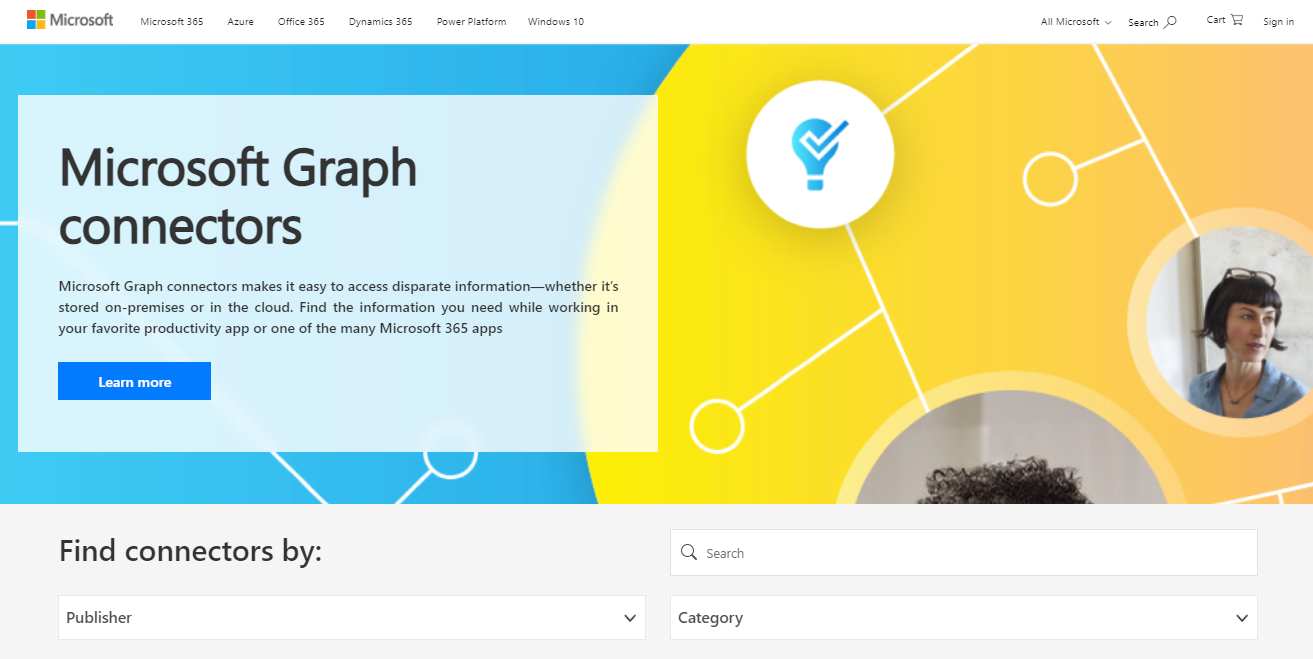
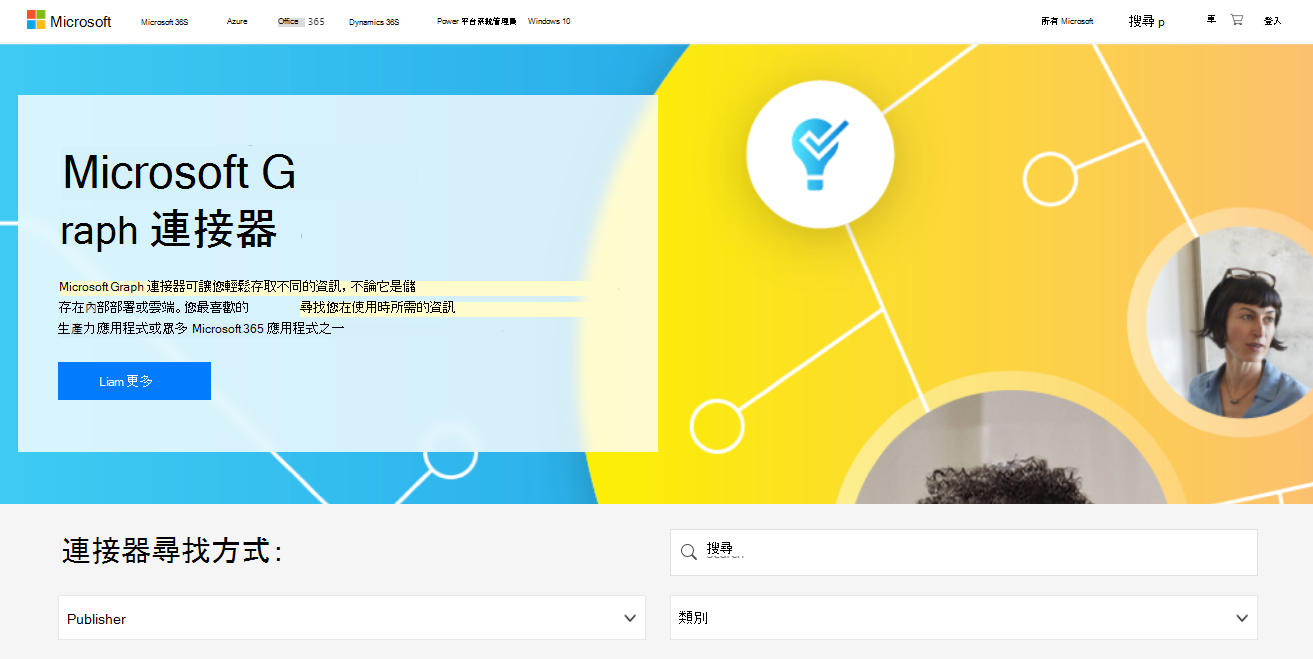
commit translated contents

diff --git a/MicrosoftSearch/customize-search-page.md b/MicrosoftSearch/customize-search-page.md
@@ -12,27 +12,27 @@ search.appverid:
 - MET150
 - MOE150
 description: 新增搜尋行業及自訂搜尋結果
-ms.openlocfilehash: e5c4ab8d507e0e6096a5b9d52dc0e818faebefb6
-ms.sourcegitcommit: a07c957dfa1d31542f0362379251bc9679dfae41
+ms.openlocfilehash: 6b6f0593a668e9c2c5c7fc5a62f7b5dd4a43a8bb
+ms.sourcegitcommit: ea6905626de67090141039565282e4e0c53b43ac
 ms.translationtype: MT
 ms.contentlocale: zh-TW
-ms.lasthandoff: 04/08/2021
-ms.locfileid: "51639851"
+ms.lasthandoff: 07/07/2021
+ms.locfileid: "53314017"
 ---
 # <a name="customize-the-search-results-page"></a>自訂搜尋結果頁面
 
-您可以建立搜尋類別和結果類型，以自訂使用者在 Microsoft [SharePoint](https://sharepoint.com/)、 [Microsoft Office](https://office.com)和 microsoft search in [Bing](https://bing.com)中搜尋時所看到的搜尋結果。 縱向使用者可讓使用者更輕鬆地找到他們具有查看許可權的資訊。 例如，您可以為行銷部門中的使用者建立協力廠商軟體的「行銷分析」資料的搜尋類別。 您也可以定義結果類型及自訂此資料的版面配置。  
+您可以建立搜尋類別和結果類型，以自訂使用者在 Microsoft [SharePoint](https://sharepoint.com/)、 [Microsoft Office](https://office.com)及 Microsoft 搜尋中的[Bing](https://bing.com)搜尋時所看到的搜尋結果。 縱向使用者可讓使用者更輕鬆地找到他們具有查看許可權的資訊。 例如，您可以為行銷部門中的使用者建立協力廠商軟體的「行銷分析」資料的搜尋類別。 您也可以定義結果類型及自訂此資料的版面配置。  
 
 您可以在下列各層級建立縱向和結果類型：
 
-- **組織層級** –當您在組織層級新增垂直時，當使用者從他們的 [SharePoint](https://sharepoint.com/) 開始頁面、 [Office](https://office.com)或 [Bing](https://bing.com)進行搜尋時，它會出現在搜尋結果頁面上。
-- **網站層級** –例如，您可能想要讓客戶服務員工直接從部門的 SharePoint 網站搜尋 *嚴重性 1* 事件。
+- **組織層級**–當使用者從其 [SharePoint](https://sharepoint.com/)開始頁面、 [Office](https://office.com)或 [Bing](https://bing.com)進行搜尋時，會顯示在搜尋結果頁面上的 [組織] 層級。
+- **網站層級**–例如，您可能想要讓客戶服務員工直接從部門的 SharePoint 網站搜尋 *嚴重性 1* 事件。
 
 ## <a name="search-verticals-explained"></a>說明的搜尋縱向
 
-在 [Microsoft 搜尋結果] 頁面的頂端有一列索引標籤。 這些是搜尋行業。 搜尋類別只會顯示特定類型或特定內容的結果。 例如 **檔** 或 **新聞**。 根據預設，Microsoft 搜尋會顯示縱向 **所有** 的 **人員**、 **檔**、 **網站** 和 **新聞**。  
+在 [Microsoft 搜尋結果] 頁面的頂端，有一列索引標籤。 這些是搜尋行業。 搜尋類別只會顯示特定類型或特定內容的結果。 例如 **檔** 或 **新聞**。 依預設，Microsoft 搜尋會顯示 **所有** 的縱向、**人員**、**檔案、****網站** 和 **新聞**。  
 
-您可以新增與您組織相關的搜尋行業。 這些會出現在 [ [SharePoint](https://sharepoint.com/)]、[ [Office](https://Office.com)] 及 [ [Bing](https://bing.com)] 的 [Microsoft 搜尋結果] 頁面上。 例如，您可以根據每個群組所需的資訊類型，為行銷相關的內容及另一個銷售人員建立垂直。 您可以新增縱向，只顯示透過連接器編制索引的內容的結果。  
+您可以新增與您組織相關的搜尋行業。 這些會出現在 Microsoft 搜尋結果頁面上[SharePoint](https://sharepoint.com/)、 [Office](https://Office.com)及[Bing](https://bing.com)。 例如，您可以根據每個群組所需的資訊類型，為行銷相關的內容及另一個銷售人員建立垂直。 您可以新增縱向，只顯示透過連接器編制索引的內容的結果。  
 
 ### <a name="multiple-connections-in-a-vertical"></a>垂直中的多個連接
 
@@ -53,7 +53,7 @@ ms.locfileid: "51639851"
 
 開始之前，請確定連接器已編制索引。 這可能需要最多48小時，視檔案大小而定。
 
-您無法為位於 [SharePoint](https://sharepoint.com/)中的內容建立垂直。
+您無法為位於[SharePoint](https://sharepoint.com/)中的內容建立垂直。
 
 新增垂直的三個基本步驟：
 
@@ -66,19 +66,20 @@ ms.locfileid: "51639851"
 啟動該嚮導之後，您會逐步指導您定義要搜尋之內容的垂直名稱、內容來源及範圍。 會以停用狀態建立垂直。 您將在稍後啟用它。
 
 您可以使用一組有限的 [關鍵字查詢語言 (KQL) ](/sharepoint/dev/general-development/keyword-query-language-kql-syntax-reference) 來縮小範圍。 此頁面列出可用的屬性。 建議您使用具有 boolean 運算子的任意文字關鍵字和屬性限制，以建立 KQL。
+KQL 也支援使用 [設定檔查詢變數](#profile-query-variables) ，在垂直方向微調結果。
 
 ### <a name="create-a-vertical-at-the-organization-level"></a>在組織層級建立垂直
 
-若要在 [SharePoint](https://sharepoint.com/) Home、 [Office](https://office.com)或 [Bing](https://bing.com)中的 Microsoft 搜尋上建立垂直，請遵循下列步驟：
+若要在[SharePoint](https://sharepoint.com/) home、 [Office](https://office.com)或[Bing](https://bing.com)中的 Microsoft 搜尋上建立垂直的，請遵循下列步驟：
 
-1. 在 [Microsoft 365 系統管理中心](https://admin.microsoft.com)中，移至 [ [**縱向**](https://admin.microsoft.com/Adminportal/Home#/MicrosoftSearch/verticals)]。
+1. 在 [Microsoft 365 系統管理中心](https://admin.microsoft.com)中，移至 [[**縱向**](https://admin.microsoft.com/Adminportal/Home#/MicrosoftSearch/verticals)]。
 2. 選取 [ **新增** ] 立即開始。  
 
 ### <a name="create-a-vertical-at-the-site-level"></a>在網站層級建立垂直
 
-1. 在您要垂直的 [SharePoint](https://sharepoint.com/) 網站上，移至 [ **設定**]。
+1. 在您要垂直的 [SharePoint](https://sharepoint.com/)網站上，移至 **設定**。
 2. 選取 [ **網站資訊** ]，然後 **查看 [所有網站設定**]。
-3. 尋找 [ **Microsoft 搜尋** ] 區段，然後選取 [ **設定此網站集合的 microsoft search**]。
+3. 尋找 [ **Microsoft 搜尋**] 區段，然後 **為此網站集合選取 [設定 Microsoft 搜尋**]。
 4. 在功能窗格中，移至 [ **自訂經驗**]，然後選取 [ **縱向** ] 索引標籤。
 5. 若要新增垂直，請選取 [ **新增**]。
   或者，若要編輯垂直，請在清單中選取它。
@@ -98,7 +99,7 @@ ms.locfileid: "51639851"
 您可以決定建立您自己的搜尋結果版面配置，並透過建立 **結果類型** 來覆寫預設搜尋結果版面配置。 搜尋結果類型是一種規則，會以不同方式顯示不同類型的搜尋結果。 其包含下列各項：
 
 - **一個或多個** 比較每個搜尋結果的條件，例如搜尋結果的內容來源。  
-- 用於符合條件之搜尋結果的 **結果版面** 配置。 結果版面配置會控制符合條件的所有結果在搜尋結果頁面上顯示和行為的方式。
+- 用於符合條件之搜尋結果的 **結果版面** 配置。 產生的版面配置會控制符合條件的所有結果在搜尋結果頁面上顯示和行為的方式。
 
 **如果適當的對應無法顯示預設搜尋結果版面配置，您必須至少建立一個結果類型的結果，以顯示在垂直上。** 您可以為每個垂直方向建立多種結果類型，這可讓您針對不同類型的結果使用不同的版面配置。 例如，您可以自訂 *嚴重性為 1* 的事件，使其具有更醒目的色彩和更大的字型，與 *嚴重的 3* 個事件相較。
 
@@ -106,23 +107,89 @@ ms.locfileid: "51639851"
   
 ### <a name="create-a-result-type-at-the-organization-level"></a>在組織層級建立結果類型
 
-1. 在 [Microsoft 365 系統管理中心](https://admin.microsoft.com)中，移至 [ [**結果類型**](https://admin.microsoft.com/Adminportal/Home#/MicrosoftSearch/resulttypes)]。
+1. 在 [Microsoft 365 系統管理中心](https://admin.microsoft.com)中，移至 [[**結果類型**](https://admin.microsoft.com/Adminportal/Home#/MicrosoftSearch/resulttypes)]。
 2. 若要新增 **結果類型**，請選取 [ **新增**]。 若要編輯結果類型，請選取相關清單中的結果類型。
 
 ### <a name="create-a-results-type-at-the-site-level"></a>在網站層級建立結果類型
 
-1. 在您要建立結果類型的 [SharePoint](https://sharepoint.com/) 網站上，移至 [ **設定**]。
+1. 在您要建立結果類型的 [SharePoint](https://sharepoint.com/)網站上，移至 **設定**。
 2. 選取 [ **網站資訊** ]，然後 **查看 [所有網站設定**]。
-3. 尋找 [Microsoft 搜尋] 區段，然後選取 [ **設定此網站集合的 Microsoft search**]。
+3. 尋找 [Microsoft 搜尋] 區段，然後 **為此網站集合選取 [設定 Microsoft 搜尋**]。
 4. 在功能窗格中，移至 [ **自訂經驗**]，然後選取 [ **結果類型** ] 索引標籤。
 5. 若要新增結果類型，請選取 [ **新增**]。  或者，若要編輯結果類型，請選取清單中的結果類型。
 
 ## <a name="step-3-view-the-vertical-after-its-enabled"></a>步驟3：在啟用垂直後查看
 
-在您啟用垂直後，您可以花幾小時的時間，才能進行查看。 如果您不想要等到啟用它之後，您可以在 [SharePoint](https://sharepoint.com/)和 [Office](https://office.com)的 URL 中附加 **cacheClear = true** ，以立即查看垂直。 針對 [Bing](https://bing.com)，append **&features = uncachedVerticals** 至工作垂直 URL，以立即查看縱向。 
+在您啟用垂直後，您可以花幾小時的時間，才能進行查看。 如果您不想要等到啟用它之後，您可以在 [SharePoint](https://sharepoint.com/)和 [Office](https://office.com)中將 **cacheClear = true** 新增至 URL，以便立即查看垂直方向。 若為 [Bing](https://bing.com)，請將 **&功能** 新增至工作垂直 URL，以立即查看縱向。
 
 > [!NOTE]
-> 從行動網頁瀏覽器查看時，在 [SharePoint](https://sharepoint.com/) 和 [Office](https://office.com) 上看不到所增添的縱向。
+> 從行動網頁瀏覽器中查看時，不會在[SharePoint](https://sharepoint.com/)和[Office](https://office.com)上看到新增的縱向。
+
+## <a name="profile-query-variables"></a>設定檔查詢變數
+
+查詢變數是用於垂直的 [KQL 查詢] 區段中，以提供動態資料做為垂直查詢的輸入。 您可以使用設定檔查詢變數，讓搜尋結果成為已登入使用者的上下文。 設定檔查詢變數會從已登入使用者的 [設定檔](/graph/api/resources/profile?view=graph-rest-beta)中取得值。
+
+例如，如果您想要建立「票據」垂直，其中登入的使用者可以搜尋其所指派的支援票證，您可以在 [管理] 頁面的 [查詢] 區段中指定下列查詢。  
+
+**AssignedTo： {Profile。 userPrincipalName}**
+
+這會縮小搜尋結果，以顯示受託人為執行搜尋之使用者的專案。
+
+[設定檔資源](https://graph.microsoft.com/graph/api/resources/profile?view=graph-rest-beta) 公開屬性做為集合。 例如，電子郵件地址相關的資訊會透過電子郵件集合、工作職位集合等方式公開。 使用者設定檔中所有可用的屬性，都是以「AAD」為來源類型的方式公開為查詢變數。
+
+請考慮電子郵件集合中有三個可用電子郵件地址的使用者，如下所示。
+
+```json
+"emails": [{ 
+
+        "address": "Megan.Bowen@contoso.com",
+        "id": "xyz", 
+        "source": { 
+            "CreatedBy": "xyz", 
+            "CreatedOn": "2222", 
+            "Type": "official" 
+        },
+        "type": "main" 
+    }, { 
+        "address": "meganb@hotmail.com",
+        "id": "abc", 
+        "source": { 
+            "CreatedBy": "abc",
+            "CreatedOn": "3333", 
+            "Type": "non-official",
+        },
+        "type": "work"
+    }, { 
+        "address": "meganb@outlook.com",
+        "id": "pqr", 
+        "source": { 
+            "CreatedBy": "pqr", 
+            "CreatedOn": "4444", 
+            "Type": "personal" 
+        },
+        "type": "personal" 
+    } 
+] 
+```
+
+- 查詢 **MyProperty： {Profile. 電子郵件地址}** 會解析為 MyProperty： "Megan.Bowen@contoso.com"。  
+
+- 如果您想要解決 address 屬性的所有值，您必須使用多重值擴充語法。 查詢 **{|MyProperty： {Profile. 電子郵件地址}}** 會解析為 ( (MyProperty： "Megan.Bowen@contoso .com" ) 或 (MyProperty： "meganb@hotmail.com" ) 或 (MyProperty： "meganb@outlook" ) )   
+
+"|" 運算子應該用來解析多重值變數。 如需設定檔擴充的更多範例，請參閱下表。
+
+| #         | 語法 |  傳回值  |
+| --------- | ------ | --- |
+| 1     | MyProperty： {設定檔. 電子郵件地址}  |   "Megan.Bowen@contoso.com"  |
+| 2  | MyProperty： {Profile} 電子郵件}   |    因為電子郵件是物件，所以 {Profile} 電子郵件} 這不會解決。|
+| 3     | {?MyProperty： {Profile. 電子郵件}}  |  這不會解決，因為電子郵件是物件。 "？" 運算子會忽略不會解析的查詢變數。 在查詢堆疊上進一步傳遞時，將會移除此變數。   |
+| 4  | {&#124;MyProperty： {Profile. Type}}    |   ( (MyProperty： "官方" ) 或 (MyProperty： "非官方" ) 或 (MyProperty： "personal" ) )     |
+
+> [!NOTE]
+>
+> - 只有使用 [連接器](connectors-overview.md) 做為內容來源的自訂的行業，才支援設定檔查詢變數。
+> - 設定檔查詢變數是在 [垂直設定處理](customize-search-page.md#step-1-create-the-search-vertical)程式的「查詢」區段中定義。
+> - 設定檔查詢變數目前在預覽中。 如需預覽的詳細資訊，請參閱 [連接器預覽功能](connectors-overview.md#what-are-the-preview-features)。
 
 ## <a name="troubleshooting"></a>疑難排解
 
